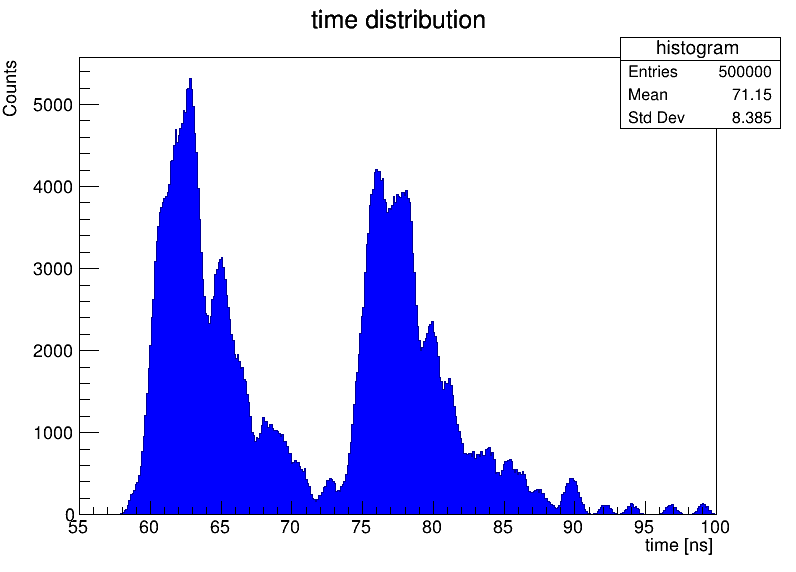
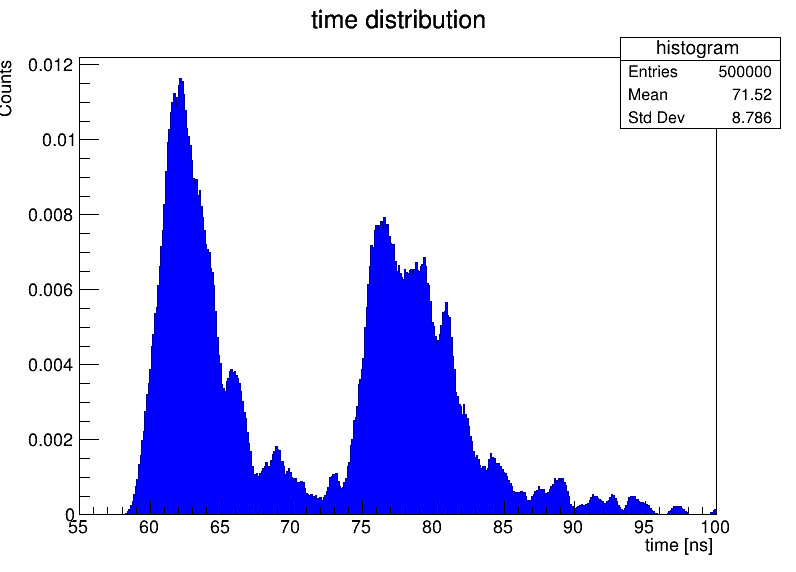
new commit

diff --git a/time_distribution.C b/time_distribution.C
@@ -43,12 +43,13 @@ int main() {
   // Creazione di gaussiane solo per gli eventi selezionati in modo casuale
   double sigma =0.35;
   for (int i = 0; i < numEventsToSelect; ++i) {
-  double mean = time[i];
-  for (int j = 0; j < 1000; ++j) {
-  histogram->Fill(generateGaussian(mean, sigma, g));
+    double mean = time[i];
+    for (int j = 0; j < 1000; ++j) {
+      histogram->Fill(generateGaussian(mean, sigma, g));
+    }
   }
-  }
-  
+  Double_t integral = histogram->Integral(); // Calcola l'integrale dell'istogramma
+  histogram->Scale(1.0 / integral); // Normalizza l'istogramma
   // Creazione del canvas e disegno dell'istogramma
   TCanvas *canvas = new TCanvas("canvas", "canvas", 800, 600);
   histogram->Draw("hist"); 
